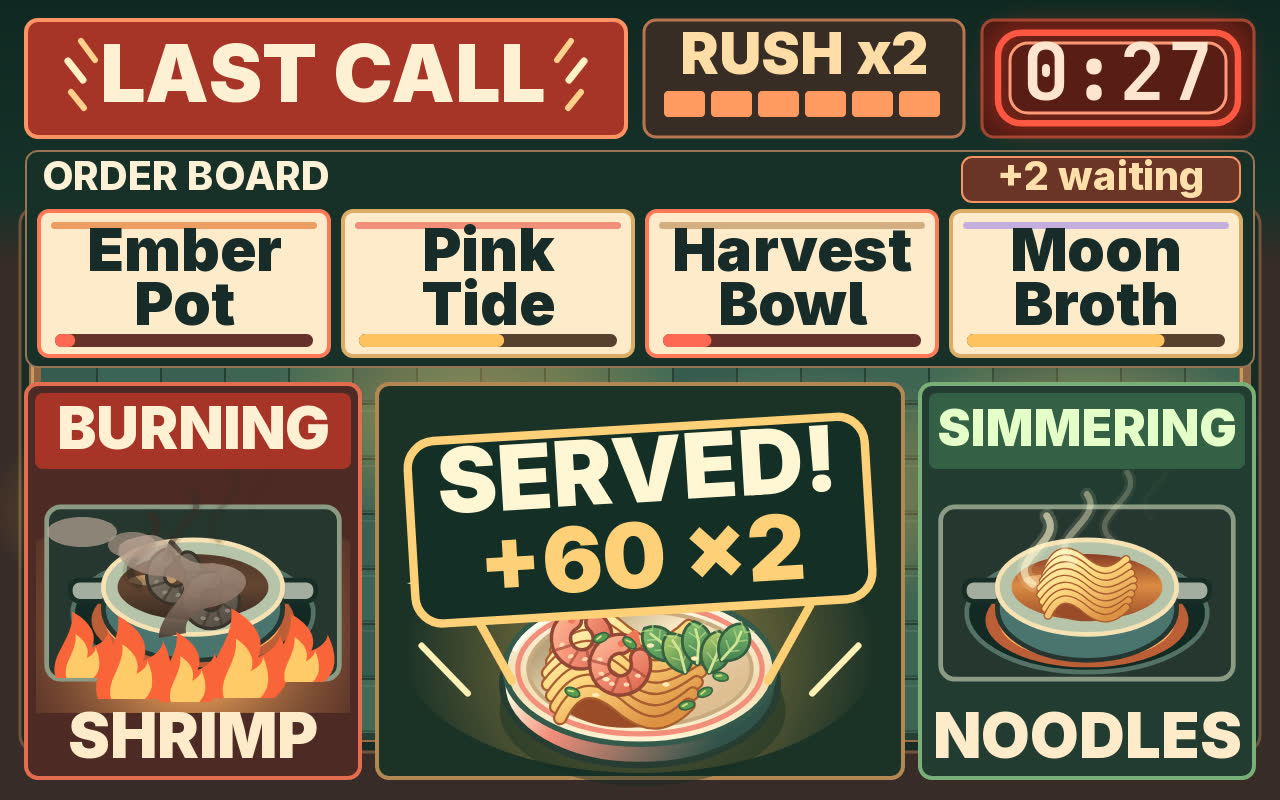
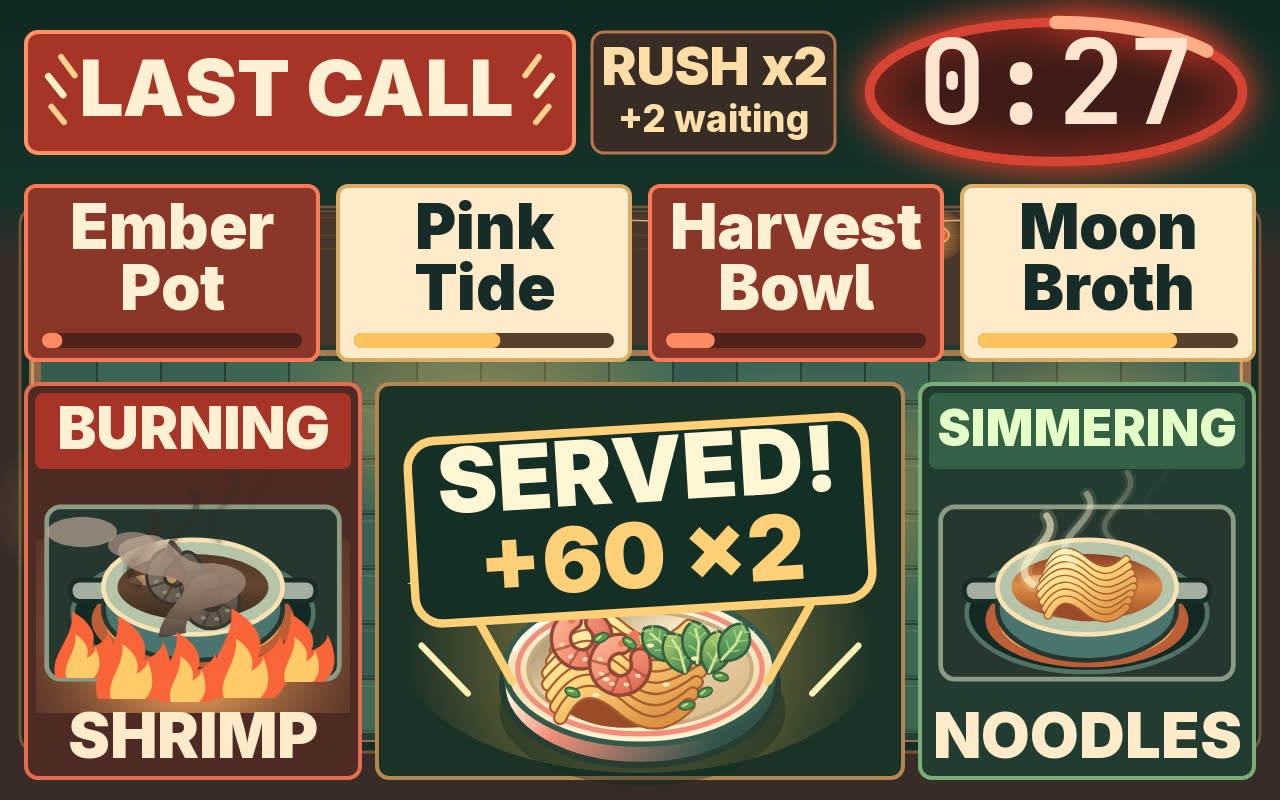
v33: large red low-time countdown and expiring tickets in rush

Changed region(s): [[0.0, 0.0, 1.0, 0.4688]]

diff --git a/game/src/shots.js b/game/src/shots.js
@@ -1,6 +1,6 @@
 // Stages the four screenshot scenes and draws the rush showcase.
 import { recipes, spawnOrder, ticketCapacity } from './orders.js';
-import { serviceWave, serviceWaves, shiftLength } from './shift.js';
+import { serviceWave, shiftLength } from './shift.js';
 import { chooseFastestRoute, estimateRouteSeconds } from './route.js';
 import { burners, chopIngredient, coverIsland, ingredients, moveParticles, useStation, worktops } from './stations.js';
 import { drawRoom, routePoint, routeSegment } from './room.js';
@@ -118,7 +118,7 @@ const coverControl = routeSegment(coverStart, coverEnd);
 
 export function drawRushView(ctx, state) {
   drawRoom(ctx);
-  drawRushHeader(ctx, state.elapsed, state.rushMotion);
+  drawRushHeader(ctx, state.elapsed, state.rushMotion, state.orders.length);
   drawRushRail(ctx, state.orders);
   drawRushBurner(ctx, state, 0, 26);
   drawRushBurner(ctx, state, 1, 920);
@@ -135,39 +135,29 @@ export function drawRushView(ctx, state) {
   drawServePop(ctx, state.servePop, age, 640, 704, 2.1);
 }
 
-function drawRushHeader(ctx, elapsed, motion) {
+function drawRushHeader(ctx, elapsed, motion, orderCount) {
   const wave = serviceWave(elapsed);
-  panel(ctx, 26, 20, 600, 117, 12, '#a73428', '#ff9365', 4);
-  drawLastCall(ctx, wave.name.toUpperCase(), 326, 78, 80, motion);
+  panel(ctx, 26, 32, 548, 121, 12, '#a73428', '#ff9365', 4);
+  drawLastCall(ctx, wave.name.toUpperCase(), 300, 93, 78, motion);
 
-  panel(ctx, 644, 20, 320, 117, 12, '#382d25', '#b87551', 3);
-  label(ctx, 'RUSH x2', 804, 57, 58, '#ffdda8', { align: 'center', weight: 900 });
-  const intensity = (serviceWaves.indexOf(wave) + 1) / serviceWaves.length;
-  for (let i = 0; i < 6; i++) {
-    panel(ctx, 664 + i * 47, 91, 41, 26, 4, i / 6 < intensity ? '#ff9a61' : '#614138');
-  }
-
-  panel(ctx, 982, 20, 272, 117, 12, '#491913', '#a14633', 3);
-  drawUrgentClock(ctx, elapsed, motion, 1118, 78);
+  panel(ctx, 592, 32, 243, 121, 12, '#382d25', '#b87551', 3);
+  label(ctx, 'RUSH x2', 714, 69, 53, '#ffdda8', { align: 'center', weight: 900 });
+  label(ctx, `+${orderCount - ticketCapacity} waiting`, 714, 121, 37, '#ffdfab', { align: 'center' });
+  drawUrgentClock(ctx, elapsed, motion, 1056, 92, 1.48);
 }
 
 function drawRushRail(ctx, orders) {
-  panel(ctx, 26, 151, 1228, 216, 12, '#183029', '#9a7455', 2);
-  label(ctx, 'ORDER BOARD', 42, 178, 40, palette.light);
-  panel(ctx, 962, 157, 278, 45, 10, '#6b3427', '#f79365', 2);
-  label(ctx, `+${orders.length - ticketCapacity} waiting`, 1101, 178, 40, '#ffdfab', { align: 'center' });
-
   orders.slice(0, ticketCapacity).forEach((ticket, i) => {
-    const x = 39 + i * 304;
-    const width = 290;
+    const x = 26 + i * 312;
+    const width = 292;
     const progress = ticket.left / ticket.patience;
     const urgent = progress <= .34;
-    panel(ctx, x, 211, width, 145, 10, '#ffebcb', urgent ? '#ff7959' : '#dbac66', 4);
-    panel(ctx, x + 12, 222, width - 24, 7, 3, ticket.recipe.color);
+    panel(ctx, x, 186, width, 174, 10, urgent ? '#8c362b' : '#ffebcb', urgent ? '#ff7959' : '#dbac66', 4);
     const [first, ...rest] = ticket.recipe.name.split(' ');
-    label(ctx, first, x + width / 2, 253, 60, palette.ink, { align: 'center', weight: 900 });
-    label(ctx, rest.join(' '), x + width / 2, 307, 60, palette.ink, { align: 'center', weight: 900 });
-    meter(ctx, x + 16, 334, width - 32, 13, progress, urgent ? '#ff6954' : '#ffc260', urgent ? '#67302a' : '#58402d');
+    const ink = urgent ? '#fff0d5' : palette.ink;
+    label(ctx, first, x + width / 2, 230, 63, ink, { align: 'center', weight: 900, maxWidth: width - 24 });
+    label(ctx, rest.join(' '), x + width / 2, 291, 63, ink, { align: 'center', weight: 900, maxWidth: width - 24 });
+    meter(ctx, x + 16, 333, width - 32, 15, progress, urgent ? '#ff8b66' : '#ffc260', urgent ? '#51221c' : '#58402d');
   });
 }
 

diff --git a/game/src/hud.js b/game/src/hud.js
@@ -52,6 +52,10 @@ function drawShiftTimer(ctx, elapsed, coverMotion, live) {
   const cover = coverMotion !== null;
   elapsed += coverMotion ?? 0;
   const remaining = Math.max(0, shiftLength - elapsed);
+  if (live && remaining < 30) {
+    drawUrgentClock(ctx, elapsed, elapsed, 911, 48, .8);
+    return;
+  }
   const urgent = cover || remaining < 30;
   const color = urgent ? '#ff9b59' : '#ffda8b';
   const pulse = (1 + Math.cos((coverMotion ?? 0) * 2 * Math.PI)) / 2;
@@ -80,8 +84,7 @@ function drawShiftTimer(ctx, elapsed, coverMotion, live) {
   stroke(ctx, color, 2.5, [[x, y], [x + Math.cos(angle) * 14, y + Math.sin(angle) * 14]]);
   oval(ctx, x, y, 2.7, 2.7, color);
   label(ctx, 'SHIFT TIMER', cover ? 880 : 945, 29, cover ? 19 : 17, color, { align: cover ? 'left' : 'center' });
-  if (live && urgent) drawUrgentClock(ctx, elapsed, elapsed, 945, 58, .53);
-  else label(ctx, readShiftClock(elapsed), cover ? 873 : 945, 59, cover ? 37 : 44, '#fff0d7', { align: cover ? 'left' : 'center', face: 'monospace' });
+  label(ctx, readShiftClock(elapsed), cover ? 873 : 945, 59, cover ? 37 : 44, '#fff0d7', { align: cover ? 'left' : 'center', face: 'monospace' });
   if (cover) {
     ctx.save();
     ctx.globalAlpha = .78 + pulse * .22;
@@ -259,16 +262,24 @@ export function drawLastCall(ctx, text, x, y, size, motion) {
 
 export function drawUrgentClock(ctx, elapsed, motion, x, y, scale = 1) {
   const pulse = .5 + .5 * Math.cos(motion * 2 * Math.PI);
+  const remaining = Math.max(0, shiftLength - elapsed);
+  const start = -Math.PI / 2;
   ctx.save();
   ctx.translate(x, y);
   ctx.scale(scale, scale);
   ctx.shadowColor = '#ff3e28';
-  ctx.shadowBlur = (12 + 18 * pulse) * scale;
-  panel(ctx, -117 - 4 * pulse, -43 - 3 * pulse, 234 + 8 * pulse, 86 + 6 * pulse,
-    23, null, '#ff5743', 5 + 2 * pulse);
+  ctx.shadowBlur = (15 + 13 * pulse) * scale;
+  oval(ctx, 0, 0, 126, 47, '#411b19', '#d64435', 5 + 2 * pulse);
+  if (remaining > 0) {
+    ctx.beginPath();
+    ctx.ellipse(0, 0, 126, 47, 0, start, start + 2 * Math.PI * remaining / shiftLength);
+    ctx.strokeStyle = '#ffac87';
+    ctx.lineCap = 'round';
+    ctx.lineWidth = 9;
+    ctx.stroke();
+  }
   ctx.shadowBlur = 0;
-  panel(ctx, -108, -35, 216, 70, 18, '#591d17', '#ff9a79', 3);
-  label(ctx, readShiftClock(elapsed), 0, 0, 77 + pulse * 4, '#ffe5d0',
+  label(ctx, readShiftClock(elapsed), 0, 0, 79, '#ffe5d0',
     { align: 'center', face: 'monospace', weight: 900 });
   ctx.restore();
 }
